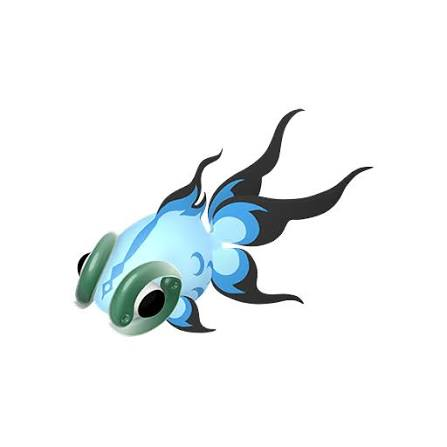
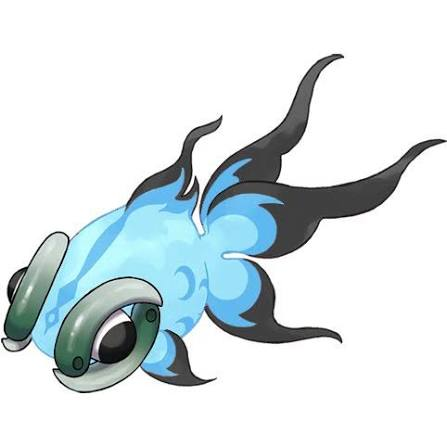
fixed extras nav bar as well as converting all imgs to backgroundless

Changed region(s): [[0.0, 0.1163, 1.0, 0.9016], [0.7562, 0.7562, 0.7852, 0.7852]]

diff --git a/Extras.html b/Extras.html
@@ -11,8 +11,8 @@
   <a href="Home.html">Home</a>
   <a href="Team 1.html">Team 1</a>
   <a href="Team 2.html">Team 2</a>
-  <a href="Team 1.html">Team 3</a>
-  <a href="Team 1.html">Team 4</a>
+  <a href="Team 3.html">Team 3</a>
+  <a href="Team 4.html">Team 4</a>
   <a href="Extras.html">Extra</a>
 </div>
 <section class="hero-image">
@@ -20,9 +20,9 @@
            Sean's Pokemon Website
        </h1> 
    </section>
-<section class="two-column">
+    <section class="two-column-top"
         <div class="image">
-            <img src="./Images/Pokemon/Oinkologne.jpg" alt="Oinkologne">
+            <img src="./Images/Pokemon/Oinkologne.png" alt="Oinkologne">
         </div>
         <div class="info">
             <h1>Oinkologne</h1>
@@ -31,7 +31,7 @@
     </section>
         <section class="two-column">
         <div class="image">
-            <img src="./Images/Pokemon/Palafin.jpg" alt="Palafin">
+            <img src="./Images/Pokemon/Palafin.png" alt="Palafin">
         </div>
         <div class="info">
             <h1>Palafin</h1>
@@ -40,7 +40,7 @@
     </section>
         <section class="two-column">
         <div class="image">
-            <img src="./Images/Pokemon/Clodsire.jpg" alt="Clodsire">
+            <img src="./Images/Pokemon/Clodsire.png" alt="Clodsire">
         </div>
         <div class="info">
             <h1>Clodsire</h1>
@@ -49,7 +49,7 @@
     </section>
         <section class="two-column">
         <div class="image">
-            <img src="./Images/Pokemon/Golduck.jpg" alt="Golduck">
+            <img src="./Images/Pokemon/Golduck.png" alt="Golduck">
         </div>
         <div class="info">
             <h1>Golduck</h1>
@@ -67,7 +67,7 @@
     </section>
         <section class="two-column">
         <div class="image">
-            <img src="./Images/Pokemon/Ting Lu.jpg" alt="Ting Lu">
+            <img src="./Images/Pokemon/Ting Lu.png" alt="Ting Lu">
         </div>
         <div class="info">
             <h1>Ting Lu</h1>
@@ -76,7 +76,7 @@
     </section>
             <section class="two-column">
         <div class="image">
-            <img src="./Images/Pokemon/Chien Pao.jpg" alt="Chien Pao">
+            <img src="./Images/Pokemon/Chien Pao.png" alt="Chien Pao">
         </div>
         <div class="info">
             <h1>Chien Pao</h1>
@@ -85,7 +85,7 @@
     </section>
             <section class="two-column">
         <div class="image">
-            <img src="./Images/Pokemon/Chi Yu.jpg" alt="Chi Yu">
+            <img src="./Images/Pokemon/Chi Yu.png" alt="Chi Yu">
         </div>
         <div class="info">
             <h1>Chi Yu</h1>
@@ -94,7 +94,7 @@
     </section>
             <section class="two-column">
         <div class="image">
-            <img src="./Images/Pokemon/Koraidon.jpg" alt="Koraidon">
+            <img src="./Images/Pokemon/Koraidon.png" alt="Koraidon">
         </div>
         <div class="info">
             <h1>Koraidon</h1>
@@ -103,7 +103,7 @@
     </section>
             <section class="two-column">
         <div class="image">
-            <img src="./Images/Pokemon/Miraidon.jpg" alt="Miraidon">
+            <img src="./Images/Pokemon/Miraidon.png" alt="Miraidon">
         </div>
         <div class="info">
             <h1>Miraidon</h1>

diff --git a/Team 1.html b/Team 1.html
@@ -3,7 +3,7 @@
 <head>
     <meta charset="UTF-8">
     <meta name="viewpoint" content="width=device-width, initial-scale=1.0">
-    <link rel="stylesheet" href="style.css">
+    <link rel="stylesheet" href="style.css".css>
     <title>Document</title>
 </head>
 <body>
@@ -20,7 +20,7 @@
            Sean's Pokemon Website
        </h1> 
    </section>
-    <section class="two-column">
+    <section class="two-column-top">
         <div class="image">
             <img src="./Images/Pokemon/Skeledirge.png" alt="Skeleton">
         </div>
@@ -31,7 +31,7 @@
     </section>
     <section class="two-column">
         <div class="image">
-            <img src="./Images/Pokemon/Corviknight.jpg" alt="Metal-Bird">
+            <img src="./Images/Pokemon/Corviknight.png" alt="Metal-Bird">
         </div>
         <div class="info">
             <h1>Corviknight</h1>
@@ -40,7 +40,7 @@
     </section>
         <section class="two-column">
         <div class="image">
-            <img src="./Images/Pokemon/Gyarados.jpg" alt="Gyarados">
+            <img src="./Images/Pokemon/Gyarados.png" alt="Gyarados">
         </div>
         <div class="info">
             <h1>Gyarados</h1>
@@ -49,7 +49,7 @@
     </section>
             <section class="two-column">
         <div class="image">
-            <img src="./Images/Pokemon/Magnezone.jpg" alt="Magnezone">
+            <img src="./Images/Pokemon/Magnezone.png" alt="Magnezone">
         </div>
         <div class="info">
             <h1>Magnezone</h1>
@@ -58,7 +58,7 @@
     </section>
             <section class="two-column">
         <div class="image">
-            <img src="./Images/Pokemon/Garchomp.jpg" alt="Garchomp">
+            <img src="./Images/Pokemon/Garchomp.png" alt="Garchomp">
         </div>
         <div class="info">
             <h1>Garchomp</h1>
@@ -67,7 +67,7 @@
     </section>
             <section class="two-column">
         <div class="image">
-            <img src="./Images/Pokemon/Garganacl.jpg" alt="Garganacl">
+            <img src="./Images/Pokemon/Garganacl.png" alt="Garganacl">
         </div>
         <div class="info">
             <h1>Garganacl</h1>

diff --git a/Team 4.html b/Team 4.html
@@ -20,9 +20,9 @@
            Sean's Pokemon Website
        </h1> 
    </section>
-    <section class="two-column">
+    <section class="two-column-top">
         <div class="image">
-            <img src="./Images/Pokemon/Venusaur.jpg" alt="Venusaur">
+            <img src="./Images/Pokemon/Venusaur.png" alt="Venusaur">
         </div>
         <div class="info">
             <h1>Venusaur</h1>
@@ -31,7 +31,7 @@
     </section>
         <section class="two-column">
         <div class="image">
-            <img src="./Images/Pokemon/Charizard.jpg" alt="Charizard">
+            <img src="./Images/Pokemon/Charizard.png" alt="Charizard">
         </div>
         <div class="info">
             <h1>Charizard</h1>
@@ -40,7 +40,7 @@
     </section>
         <section class="two-column">
         <div class="image">
-            <img src="./Images/Pokemon/Blastoise.jpg" alt="Blastoise">
+            <img src="./Images/Pokemon/Blastoise.png" alt="Blastoise">
         </div>
         <div class="info">
             <h1>Blastoise</h1>
@@ -49,7 +49,7 @@
     </section>
         <section class="two-column">
         <div class="image">
-            <img src="./Images/Pokemon/Krookodile.jpg" alt="Krookodile">
+            <img src="./Images/Pokemon/Krookodile.png" alt="Krookodile">
         </div>
         <div class="info">
             <h1>Krookodile</h1>
@@ -58,7 +58,7 @@
     </section>
         <section class="two-column">
         <div class="image">
-            <img src="./Images/Pokemon/Falinks.jpg" alt="Falinks">
+            <img src="./Images/Pokemon/Falinks.png" alt="Falinks">
         </div>
         <div class="info">
             <h1>Falinks</h1>
@@ -67,7 +67,7 @@
     </section>
         <section class="two-column">
         <div class="image">
-            <img src="./Images/Pokemon/Dragapult.jpg" alt="Dragapult">
+            <img src="./Images/Pokemon/Dragapult.png" alt="Dragapult">
         </div>
         <div class="info">
             <h1>Dragapult</h1>

diff --git a/Team 2.html b/Team 2.html
@@ -20,9 +20,9 @@
            Sean's Pokemon Website
        </h1> 
    </section>
-<section class="two-column">
+<section class="two-column-top">
         <div class="image">
-            <img src="./Images/Pokemon/Quaquaval.jpg" alt="Quaquaval">
+            <img src="./Images/Pokemon/Quaquaval.png" alt="Quaquaval">
         </div>
         <div class="info">
             <h1>Quaquaval</h1>
@@ -31,7 +31,7 @@
     </section>
     <section class="two-column">
         <div class="image">
-            <img src="./Images/Pokemon/Tinkaton.jpg" alt="Tinkaton">
+            <img src="./Images/Pokemon/Tinkaton.png" alt="Tinkaton">
         </div>
         <div class="info">
             <h1>Tinkaton</h1>
@@ -40,7 +40,7 @@
     </section>
         <section class="two-column">
         <div class="image">
-            <img src="./Images/Pokemon/Ceruledge.jpg" alt="Ceruledge">
+            <img src="./Images/Pokemon/Ceruledge.png" alt="Ceruledge">
         </div>
         <div class="info">
             <h1>Ceruledge</h1>
@@ -49,7 +49,7 @@
     </section>
             <section class="two-column">
         <div class="image">
-            <img src="./Images/Pokemon/Kilowattrel.jpg" alt="Kilowattrel">
+            <img src="./Images/Pokemon/Kilowattrel.png" alt="Kilowattrel">
         </div>
         <div class="info">
             <h1>Kilowattrel</h1>
@@ -58,7 +58,7 @@
     </section>
             <section class="two-column">
         <div class="image">
-            <img src="./Images/Pokemon/Toedscruel.jpg" alt="Toedscruel">
+            <img src="./Images/Pokemon/Toedscruel.png" alt="Toedscruel">
         </div>
         <div class="info">
             <h1>Toedscruel</h1>

diff --git a/Team 3.html b/Team 3.html
@@ -20,9 +20,9 @@
            Sean's Pokemon Website
        </h1> 
    </section>
-<section class="two-column">
+<section class="two-column-top">
         <div class="image">
-            <img src="./Images/Pokemon/Meowscarada.jpg" alt="Meowscarada">
+            <img src="./Images/Pokemon/Meowscarada.png" alt="Meowscarada">
         </div>
         <div class="info">
             <h1>Meowscarada</h1>
@@ -31,7 +31,7 @@
     </section>
     <section class="two-column">
         <div class="image">
-            <img src="./Images/Pokemon/Talonflame.jpg" alt="Talonflame">
+            <img src="./Images/Pokemon/Talonflame.png" alt="Talonflame">
         </div>
         <div class="info">
             <h1>Talonflame</h1>
@@ -40,7 +40,7 @@
     </section>
         <section class="two-column">
         <div class="image">
-            <img src="./Images/Pokemon/Annihilape.jpg" alt="Annihilape">
+            <img src="./Images/Pokemon/Annihilape.png" alt="Annihilape">
         </div>
         <div class="info">
             <h1>Annihilape</h1>

diff --git a/style.css b/style.css
@@ -51,36 +51,47 @@ body{
     width: 75%;
     height: 75%;
     margin: auto;
-    padding-top: 200px;
+    padding-top: 100px;
     display: grid;
     grid-template-columns: 1fr 2fr;
-    gap: 50px;
+    gap: 25px;
 }
 
 .two-column img{
     display: grid;
     grid-template-columns: 1fr 2fr;
-    gap: 50px;
+    gap: 25px;
     width: 80%;
     height: auto;
+
 }    
 
-.two-column{
+.two-column-top{
     width: 75%;
     height: 75%;
     margin: auto;
     padding-top: 200px;
     display: grid;
     grid-template-columns: 1fr 2fr;
-    gap: 50px;
+    gap: 25px;
 }
 
-.two-column img{
+.two-column-top img{
+    display: grid;
+    grid-template-columns: 1fr 2fr;
+    gap: 0px;
+    width: 70%;
+    height: auto;
+}    
+
+.two-column-home{
+    width: 75%;
+    height: auto;
+    margin: auto;
+    padding-top: 300px;
     display: grid;
     grid-template-columns: 1fr 2fr;
     gap: 50px;
-    width: 80%;
-    height: auto;
 }
 
 img{

diff --git a/Home.html b/Home.html
@@ -21,7 +21,7 @@
            Sean's Pokemon Website
        </h1> 
    </section>
-    <section class="two-column">
+    <section class="two-column-home">
         <div class="image">
             <img src="./Images/Violet Cover.jpg" alt="Pokemon V Cover">
         </div>
